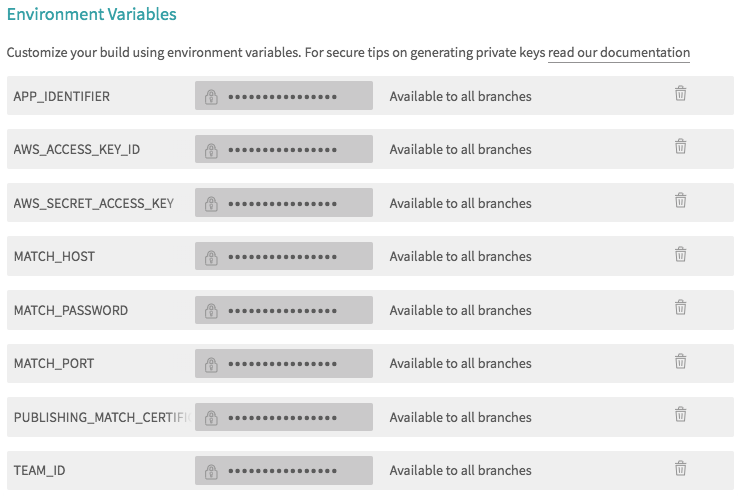
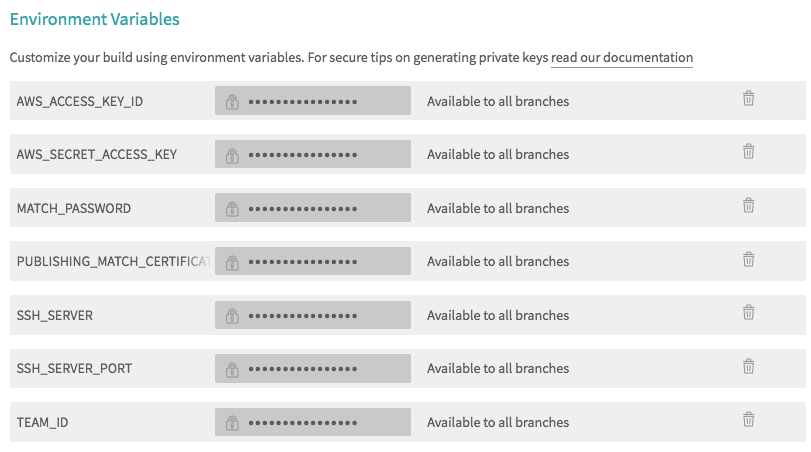
Replaced APP_IDENTIFIER env var with value found in iOS project. Renamed MATCH_HOST and MATCH_PORT with SSH_SERVER and SSH_SERVER_PORT. Modified README with updated instructions.

diff --git a/lib/src/bundle.dart b/lib/src/bundle.dart
@@ -16,16 +16,18 @@ const kBuildToOsMapFileName = 'build_to_os.txt';
 
 // env consts
 const kCIEnvVar = 'CI';
-const kExportOptionsPlistEnvVars = ['APP_IDENTIFIER', 'TEAM_ID'];
-const kAppfileEnvVars = ['APP_IDENTIFIER'];
+const kExportOptionsPlistEnvVars = ['TEAM_ID'];
 const kCIBuildEnvVars = [
   'PUBLISHING_MATCH_CERTIFICATE_REPO',
   'MATCH_PASSWORD',
-  'MATCH_HOST',
-  'MATCH_PORT',
+  'SSH_SERVER',
+  'SSH_SERVER_PORT',
   'AWS_ACCESS_KEY_ID',
   'AWS_SECRET_ACCESS_KEY'
 ];
+
+// substitute names
+const kAppIdentifier = 'APP_IDENTIFIER';
 
 /// Bundles Flutter tests using appium template found in staging area.
 /// Resulting bundle is saved on disk in temporary location
@@ -98,16 +100,18 @@ Future<void> unpackResources(String tmpDir) async {
   // unpack build to os map file
   await unpackFile(kBuildToOsMapFileName, tmpDir);
 
+  final nameVals = {kAppIdentifier: getAppIdentifier()};
+
   // unpack export options
   await unpackFile('exportOptions.plist', 'ios',
-      envVars: kExportOptionsPlistEnvVars);
+      envVars: kExportOptionsPlistEnvVars, nameVals: nameVals);
 
   // unpack components used in a CI environment
   final envVars = Platform.environment;
   if (envVars[kCIEnvVar] == 'true') {
     print('CI environment detected. Unpacking related resources.');
     // unpack fastlane
-    await unpackFile('fastlane/Appfile', 'ios', envVars: kAppfileEnvVars);
+    await unpackFile('fastlane/Appfile', 'ios', nameVals: nameVals);
     await unpackFile('fastlane/Fastfile', 'ios');
     await unpackFile('GemFile', 'ios');
     await unpackFile('GemFile.lock', 'ios');
@@ -148,11 +152,14 @@ Future<void> unpackScript(String srcPath, String dstDir) async {
   cmd('chmod', ['u+x', '$dstDir/$srcPath']);
 }
 
-/// Unpack file from resources while optionally applying env vars.
-Future unpackFile(String srcPath, String dstDir, {List<String> envVars}) async {
+/// Unpack file from resources while optionally applying env vars
+/// and/or name/value pairs.
+Future unpackFile(String srcPath, String dstDir,
+    {List<String> envVars, Map nameVals}) async {
   final resource = Resource('$kResourcesUri/$srcPath');
   String resourceStr = await resource.readAsString();
 
+  // substitute env vars
   if (envVars != null) {
     final env = Platform.environment;
     for (final envVar in envVars) {
@@ -160,6 +167,22 @@ Future unpackFile(String srcPath, String dstDir, {List<String> envVars}) async {
     }
   }
 
+  // substitute name/vals
+  if (nameVals != null) {
+    for (final name in nameVals.keys) {
+      resourceStr = resourceStr.replaceAll('\$$name', nameVals[name]);
+    }
+  }
+
   final file = await File('$dstDir/$srcPath').create(recursive: true);
   await file.writeAsString(resourceStr, flush: true);
+}
+
+/// Gets the first app identifier found.
+String getAppIdentifier() {
+  const kIosConfigPath = 'ios/Runner.xcodeproj/project.pbxproj';
+  final regExp = 'PRODUCT_BUNDLE_IDENTIFIER = (.*);';
+  final iOSConfigStr = File(kIosConfigPath).readAsStringSync();
+  final appIdentifier = RegExp(regExp).firstMatch(iOSConfigStr)[1];
+  return appIdentifier;
 }

diff --git a/test/sylph_test.dart b/test/sylph_test.dart
@@ -513,16 +513,37 @@ void main() {
       expect(str, expected());
     });
 
-    test('unpack files with env vars', () async {
-      final envVars = ['APP_IDENTIFIER', 'APPLE_ID', 'ITC_TEAM_ID', 'TEAM_ID'];
+    test('unpack files with env vars and name/value pairs', () async {
+      final envVars = ['APPLE_ID', 'ITC_TEAM_ID', 'TEAM_ID'];
       final filePaths = ['fastlane/Appfile', 'exportOptions.plist'];
       final dstDir = '/tmp/test_env_files';
+
+      // change directory to app
+      final origDir = Directory.current;
+      Directory.current = 'example';
+      final nameVals = {kAppIdentifier: getAppIdentifier()};
+      // change back for tests to continue
+      Directory.current = origDir;
+
       for (final srcPath in filePaths) {
-        await unpackFile(srcPath, dstDir, envVars: envVars);
+        await unpackFile(srcPath, dstDir, envVars: envVars, nameVals: nameVals);
         final dstPath = '$dstDir/$srcPath';
         expect(File(dstPath).existsSync(), isTrue,
             reason: '$dstPath not found');
       }
+    });
+
+    test('find APP_IDENTIFIER', () {
+      final expected = 'com.orbsoft.counter';
+      // change directory to app
+      final origDir = Directory.current;
+      Directory.current = 'example';
+
+      String appIdentifier = getAppIdentifier();
+      expect(appIdentifier, expected);
+
+      // change back for tests to continue
+      Directory.current = origDir;
     });
   });
 }

diff --git a/lib/src/validator.dart b/lib/src/validator.dart
@@ -63,7 +63,6 @@ bool isValidConfig(Map config) {
   final env = Platform.environment;
   envFail = isEnvVarUndefined(kExportOptionsPlistEnvVars);
   if (env[kCIEnvVar] != null) {
-    envFail = isEnvVarUndefined(kAppfileEnvVars) || envFail;
     envFail = isEnvVarUndefined(kCIBuildEnvVars) || envFail;
   }
 

diff --git a/README.md b/README.md
@@ -61,6 +61,12 @@ Default output format [None]: json
 For alternative configuration options see:  
 https://docs.aws.amazon.com/cli/latest/userguide/cli-chap-configure.html
 
+## Test AWS CLI
+Confirm AWS CLI is installed and configured correctly by running an AWS command. For example, the following command should generate output:
+```
+aws devicefarm list-devices
+```
+
 # Configuration
 Configuration information is passed to _Sylph_ using a configuration file. The default config file is called `sylph.yaml`:
 ```yaml
@@ -117,13 +123,12 @@ Multiple test suites, consisting of multiple tests, can be run on each device in
 Device pools can consist of multiple devices. Devices in a device pool must be of the same type, iOS or Android.
 
 ## Building an iOS debug app
-To build a testable iOS app locally,     that can run on any real device in the cloud, the following environment variables must be present:
-- APP_IDENTIFIER  
-This is the bundle identifier of your iOS app. For example, com.mycompany.myapp.
+To build a testable iOS app locally, that can run on any real device in the cloud, the following environment variable must be present:
+
 - TEAM_ID  
 This is the Developer Portal Team ID. It is of the form 'ABCDEFGHIJ'.
 
-A check is made before the start of a run to confirm these environment variables are present.
+A check is made before the start of a run to confirm this environment variable is present.
 
 ## Populating a device pool
 To add devices to a device pool, pick devices from the list provided by
@@ -138,30 +143,7 @@ and add to the appropriate pool type in sylph.yaml. The listed devices are devic
 The sylph.yaml is validated to confirm the devices are  available on Device Farm and tests are present before starting a run. Presence of the required environment variables for the iOS build are also confirmed.
 
 # Configuring a CI Environment for _Sylph_
-
-## iOS builds
-Special handling for building iOS apps is required for running tests on remote real devices. In particular, provisioning profiles and certificates must be installed on the build machine. To install the dependencies needed to complete the iOS build, Fastlane's match is used. _Sylph_ will detect it is running in a CI environment (using the CI environment variable), and will install fastlane files that in turn will install the dependencies needed to build the iOS app using Fastlane's match. The iOS build can then complete as normal.
-
-The following environment variables are required by a CI build to build the iOS app:
-- PUBLISHING_MATCH_CERTIFICATE_REPO  
-This is the location of the private match repo. It expects an ssh-based url. For example, ssh://git@private.mycompany.com/private_repos/match.git  
-- MATCH_PASSWORD  
-This is the password that was used to encrypt the git repo's contents during match setup.
-
-For details on how to configure Match see:  
-https://docs.fastlane.tools/actions/match/
-
-The following are required by sylph in a CI environment to connect to the match host. The match host is running the ssh server that connects to the git server which serves the match repo. This configuration is required so that PUBLISHING_MATCH_CERTIFICATE_REPO will work via ssh:
-- MATCH_HOST  
-This is used to configure the CI's ssh client to find the match host. For example, private.mycompany.com.
-- MATCH_PORT  
-This is used to configure the CI's ssh client to find the match host's ssh port. For example, 22.
-
-The following environment variables are also required by _Sylph_ in a CI environment to configure the Fastlane Appfile and exportOptions.plist correctly:
-- APP_IDENTIFIER  
-This is the bundle identifier of your iOS app. For example, com.mycompany.myapp.
-- TEAM_ID  
-This is the Developer Portal Team ID. It is of the form 'ABCDEFGHIJ'.
+In addition to the command line, _Sylph_ also runs in a CI environment.
 
 ## AWS CLI Credentials for CI
 The following AWS CLI credentials are required:
@@ -171,11 +153,36 @@ The following AWS CLI credentials are required:
 For details on other credentials see:  
 https://docs.aws.amazon.com/cli/latest/userguide/cli-configure-envvars.html
 
-Note: the Travis-CI build uses pre-configured AWS CLI values in [.aws/config](.aws/config)
+## iOS builds
+To build the iOS app, the provisioning profile and certificate must be installed on the CI build machine. To install these dependencies, Fastlane's match is used. _Sylph_ will detect it is running in a CI environment (using the 'CI' environment variable), and will install fastlane and fastlane scripts. The scripts  are used to install the dependencies using Fastlane's match. The iOS build can then complete as normal.
+
+The following environment variables are required by a CI build to use Fastlane match:
+- PUBLISHING_MATCH_CERTIFICATE_REPO  
+This is the location of the private match repo. It expects an ssh-based url. For example, ssh://git@private.mycompany.com/private_repos/match.git  
+- MATCH_PASSWORD  
+This is the password that was used to encrypt the git repo's contents during match setup.
+
+For details on how to setup Match see:  
+https://docs.fastlane.tools/actions/match/
+
+The following are required by sylph in a CI environment to connect to the match host. The match host is running a ssh server that connects to the git server which serves the match repo. This configuration is required so that PUBLISHING_MATCH_CERTIFICATE_REPO will work via ssh:
+- SSH_SERVER  
+This is used to configure the CI's ssh client to find the match host. For example, private.mycompany.com.
+- SSH_SERVER_PORT  
+This is used to configure the CI's ssh client to find the match host's ssh port. For example, 22.
+
+As from the command line, the following environment variable is also required by _Sylph_ in a CI environment:
+- TEAM_ID  
+This is the Developer Portal Team ID. It is of the form 'ABCDEFGHIJ'.
+
 ## Sample environment variables for Travis-CI
 For example, when _Sylph_ is run on Travis-CI the following environment variables are used:
 
 ![secret variables](art/travis_env_vars.png)
+
+See [.travis](.travis) for running _Sylph_ on Travis-CI.
+
+Note: the Travis-CI build uses pre-configured AWS CLI values in [.aws/config](.aws/config).
 
 # Upgrade
 To upgrade, simply re-issue the install command
